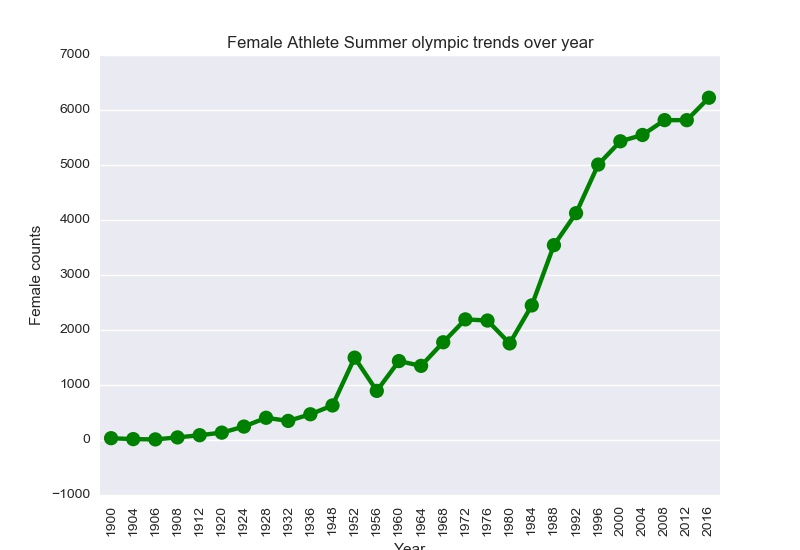
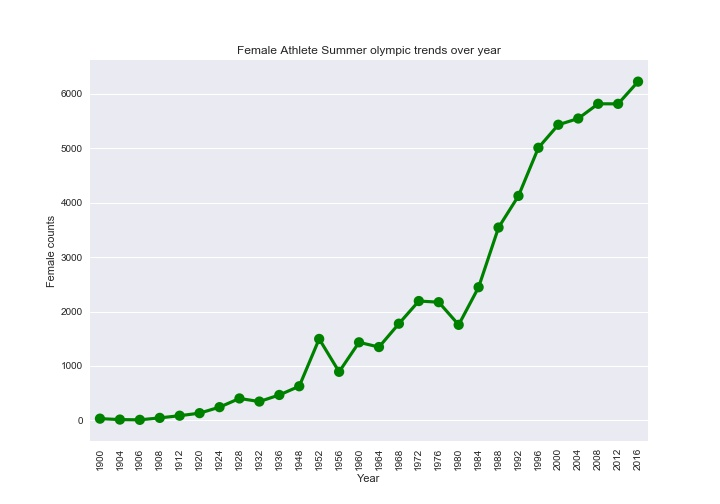
updated

diff --git a/Olympic project/main.py b/Olympic project/main.py
@@ -52,6 +52,8 @@ print("Total medals ------>", athlete_data["Winter"].max())
 
 # Athlete count over years
 count = olym_data.groupby("Year")["Season"].value_counts().unstack()
+
+plt.figure(figsize=(10,7))
 plt.style.use('seaborn')
 plt.scatter(count.index, count["Summer"])
 plt.plot(count.index, count["Summer"],"r-o")
@@ -62,6 +64,7 @@ plt.xlabel("Year")
 plt.ylabel("Athelte Count")
 plt.savefig("Summer Athelete count.jpg")
 
+plt.figure(figsize=(10,7))
 plt.style.use("seaborn")
 plt.scatter(count.index, count["Winter"])
 plt.plot(count.index, count["Winter"],"r-o")
@@ -74,6 +77,7 @@ plt.savefig("Winter Athelete count.jpg")
 s_male_count = olym_data["Year"][(olym_data["Sex"]=="M")&(olym_data["Season"]=="Summer")].value_counts()
 s_female_count = olym_data["Year"][(olym_data["Sex"]=="F")&(olym_data["Season"]=="Summer")].value_counts()
 
+plt.figure(figsize=(10,7))
 sns.pointplot(s_male_count.index, s_male_count, color="m")
 plt.xticks(rotation=90)
 plt.title("Male Athlete Summer olympic trends over year")
@@ -81,6 +85,7 @@ plt.xlabel("Year")
 plt.ylabel("Male counts")
 plt.savefig("Summer olympic Male Trends.jpg")
 
+plt.figure(figsize=(10,7))
 sns.pointplot(s_female_count.index, s_female_count,color="g")
 plt.xticks(rotation=90)
 plt.title("Female Athlete Summer olympic trends over year")
@@ -92,6 +97,7 @@ plt.savefig("Summer olympic Female Trends.jpg")
 w_male_count = olym_data["Year"][(olym_data["Sex"]=="M")&(olym_data["Season"]=="Winter")].value_counts()
 w_female_count = olym_data["Year"][(olym_data["Sex"]=="F")&(olym_data["Season"]=="Winter")].value_counts()
 
+plt.figure(figsize=(10,7))
 sns.pointplot(w_male_count.index, w_male_count, color="m")
 plt.xticks(rotation=90)
 plt.title("Male Athlete Winter olympic trends over year")
@@ -99,6 +105,7 @@ plt.xlabel("Year")
 plt.ylabel("Male counts")
 plt.savefig("Winter olympic Male Trends.jpg")
 
+plt.figure(figsize=(10,7))
 sns.pointplot(w_female_count.index, w_female_count,color="g")
 plt.xticks(rotation=90)
 plt.title("Female Athlete Winter olympic trends over year")
@@ -110,12 +117,32 @@ plt.savefig("Winter olympic Female Trends.jpg")
 gender_distributions = olym_data.groupby("Sex")["Season"].value_counts().unstack()
 
 plt.style.use("ggplot")
+
+# Summer
+# To change the background color
+#fig = plt.figure()
+#fig.patch.set_facecolor('black')
+
+# To change the text color
+#plt.rcParams['text.color'] = 'white'
+plt.figure(figsize=(8,7))
 plt.pie(gender_distributions["Summer"],labels=list(gender_distributions.index), autopct="%.1f%%")
-plt.title("Summer Olympics gender ratio")
 plt.axis("equal")
+# To plot the circle in the middle of pie chart to make a donut chart
+my_circle=plt.Circle((0,0), 0.7, color='white')
+p=plt.gcf()
+p.gca().add_artist(my_circle)
+plt.title("Summer Olympics gender ratio")
 plt.savefig("Summer olympics gender distribution.jpg")
 
+# Winter
+plt.figure(figsize=(8,7))
 plt.pie(gender_distributions["Winter"],labels=list(gender_distributions.index), autopct="%.1f%%")
-plt.title("Winter Olympics gender ratio")
 plt.axis("equal")
+my_circle=plt.Circle((0,0), radius=0.7, color='white')
+p=plt.gcf()
+p.gca().add_artist(my_circle)
+plt.title("Winter Olympics gender ratio")
 plt.savefig("Winter olympics gender distribution.jpg")
+
+#
